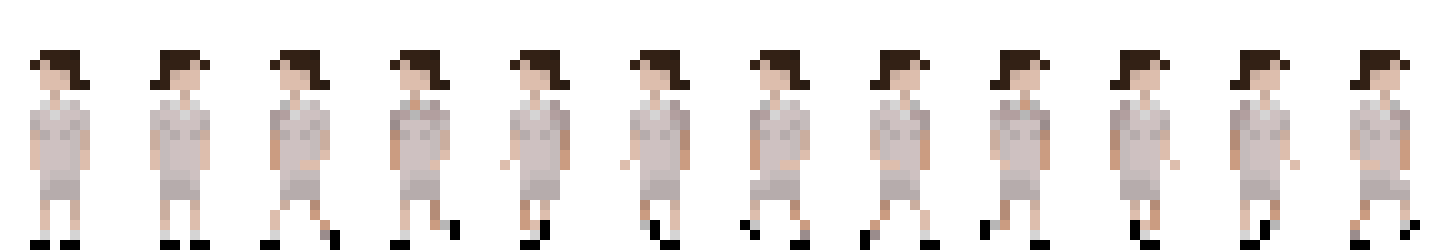
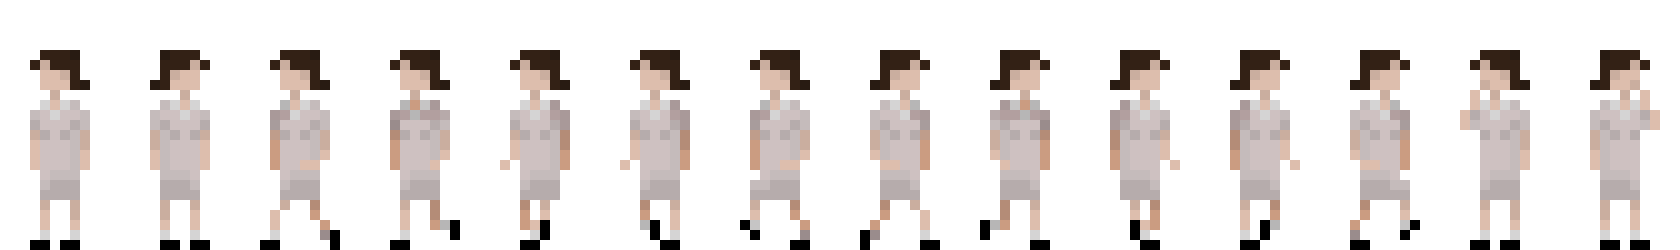
noiseee

diff --git a/js/game.js b/js/game.js
@@ -86,6 +86,8 @@ playGame.prototype = {
 		player.animations.add('anne-idle-right', [1], 1, true);
 		player.animations.add('anne-walk-left', [2,3,4,5,6], 10, true);
 		player.animations.add('anne-walk-right', [7,8,9,10,11], 10, true);
+		player.animations.add('anne-shush-left', [12], 1, true);
+		player.animations.add('anne-shush-right', [13], 1, true);
     player.animations.play('anne-idle-left');
     player.anchor.setTo(0.5, 0.5);
 		
@@ -140,7 +142,7 @@ playGame.prototype = {
 		}
 		game.time.events.loop(Phaser.Timer.SECOND * 3, switchNPC, game, margotData)
 		
-		margotNoise = game.add.sprite(margot.x, margot.y-135, 'noisemeter')
+		margotNoise = game.add.sprite(margot.x, margot.y-130, 'noisemeter')
 		margotNoise.frame = 0
 		margotNoise.anchor.setTo(0.5, 0.5);
 		margotData.noise = margotNoise
@@ -173,7 +175,7 @@ playGame.prototype = {
 		}
 		game.time.events.loop(Phaser.Timer.SECOND * 4, switchNPC, game, ottoData)
 		
-		ottoNoise = game.add.sprite(otto.x, otto.y-135, 'noisemeter')
+		ottoNoise = game.add.sprite(otto.x, otto.y-130, 'noisemeter')
 		ottoNoise.frame = 0
 		ottoNoise.anchor.setTo(0.5, 0.5);
 		ottoData.noise = ottoNoise
@@ -206,7 +208,7 @@ playGame.prototype = {
 		}
 		game.time.events.loop(Phaser.Timer.SECOND * 5, switchNPC, game, edithData)
 		
-		edithNoise = game.add.sprite(edith.x, edith.y-135, 'noisemeter')
+		edithNoise = game.add.sprite(edith.x, edith.y-130, 'noisemeter')
 		edithNoise.frame = 0
 		edithNoise.anchor.setTo(0.5, 0.5);
 		edithData.noise = edithNoise
@@ -222,7 +224,7 @@ playGame.prototype = {
 		npcMovement(edith, edithData, top_topfloor-edithData.height, bottom_topfloor-edithData.height, 90, w-90);
 		// checkNoiseLevel(npcs)
 		updateNoiseMeterPosition(npcs)
-		// shush(player, npcs)
+		shush(player, playerData, npcs)
 	},
 	
 	render: function() {
@@ -230,26 +232,32 @@ playGame.prototype = {
 	}
 }
 
-// function shush(player, npcs) {
-// 	for (i=0; i < npcs.length; i++) {
-// 		npc = npcs[i].npc
-// 		data = npcs[i].data
-// 		
-// 		if (player.x < npc.x-100) {
-// 			
-// 		}
-// 	}
-// }
+function shush(player, playerData, npcs) {
+	for (i=0; i < npcs.length; i++) {
+		npc = npcs[i].npc
+		data = npcs[i].data
+		
+		playerNpc = Math.abs(npc.npc.x - player.x)
+		if (playerNpc < 100) {
+			if (playerData.facingLeft) {
+				player.animations.play('anne-shush-left');
+			} else {
+				player.animations.play('anne-shush-right');
+			}
+			data.noise.frame--;
+		}
+	}
+}
 
 function updateNoiseMeterPosition(npcs) {
 	npcs.margot.data.noise.x = npcs.margot.npc.x
-	npcs.margot.data.noise.y = npcs.margot.npc.y-135
+	npcs.margot.data.noise.y = npcs.margot.npc.y-130
 	
 	npcs.otto.data.noise.x = npcs.otto.npc.x
-	npcs.otto.data.noise.y = npcs.otto.npc.y-135
+	npcs.otto.data.noise.y = npcs.otto.npc.y-130
 	
 	npcs.edith.data.noise.x = npcs.edith.npc.x
-	npcs.edith.data.noise.y = npcs.edith.npc.y-135
+	npcs.edith.data.noise.y = npcs.edith.npc.y-130
 }
 
 function checkNoiseLevel(npcs) {	// only works with 3 npcs right now
